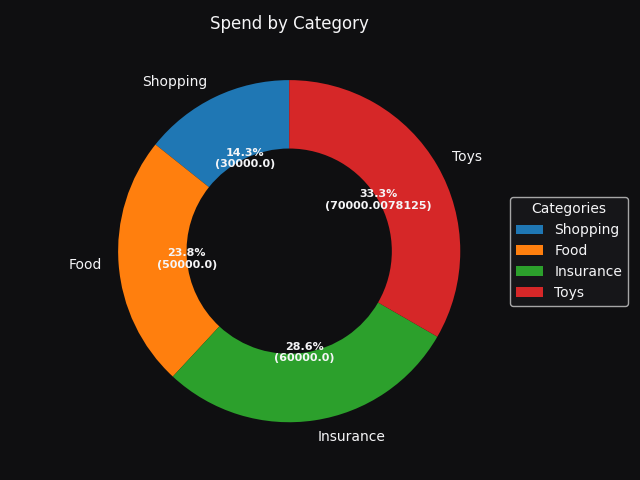
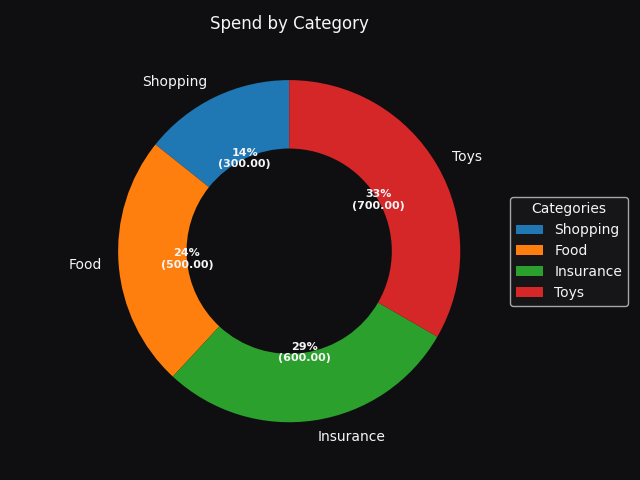
bug fix on rounding error & decimal places on pie chart

diff --git a/final_project/helpers.py b/final_project/helpers.py
@@ -200,7 +200,7 @@ def getPie(start, end, accId = None):
      user = getUser()
 
      if (not accId):
-          data = cur.execute("SELECT category, sum(amount_cents) as totals FROM transactions WHERE created_by_user_id = ? AND trans_type = ? AND trans_date BETWEEN ? AND ? GROUP BY category ORDER BY totals", (user["id"], TYPES[0], start, end,)).fetchall()
+          data = cur.execute("SELECT category, SUM(amount_cents) AS totals FROM transactions WHERE created_by_user_id = ? AND trans_type = ? AND trans_date BETWEEN ? AND ? GROUP BY category ORDER BY totals", (user["id"], TYPES[0], start, end,)).fetchall()
 
           con.close()
 
@@ -214,7 +214,7 @@ def getPie(start, end, accId = None):
 
      for i in data:
           categories.append(i["category"])
-          totals.append(i["totals"])
+          totals.append(round(i["totals"] / 100.0, 2))
 
      #plt.style.use('dark_background')
      fig, ax = plt.subplots()
@@ -222,7 +222,7 @@ def getPie(start, end, accId = None):
 
      def autopct_func(pct, allvals):
           absolute = round(pct / 100 * sum(allvals), 2)
-          return f"{pct:.1f}%\n({absolute})"
+          return f"{pct:.0f}%\n({absolute:.2f})"
      
      wedges, texts, autotexts = ax.pie(
           totals,
